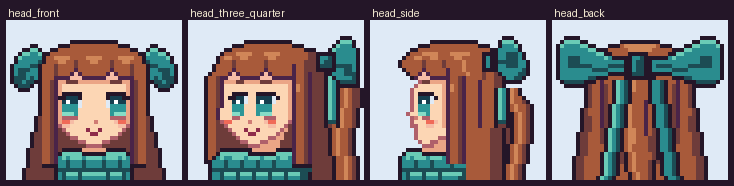
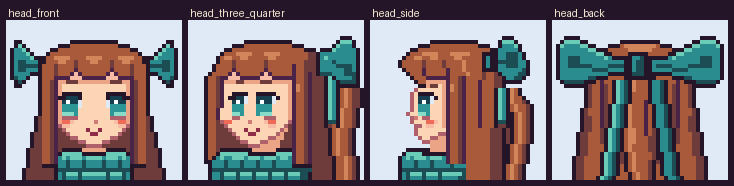
r13 head_small round 6 (final fixes)

diff --git a/docs/review/r13_head_small.md b/docs/review/r13_head_small.md
@@ -1,4 +1,4 @@
-# r13 Head at full-body scale (Pixel Artist 3), review-4 bow applied
+# r13 Head at full-body scale (Pixel Artist 3), review-5 final fixes applied
 
 This is candidate C's face as a ~27 px head. **The canvas is now 44x40, so paste at x+26** (turnaround x = head_small x + 26). Rows are unchanged; all x values below are 44-canvas.
 
@@ -21,16 +21,14 @@ This is candidate C's face as a ~27 px head. **The canvas is now 44x40, so paste
 
 ## Bow (review 4: puffy teardrops, 42 px)
 - **Back (master):** loops x1-18 and x24-42, 13 rows at the outer end (y4-16), pinching to 5 rows (y9-13) at a 5x7 knot (x19-23, y8-14). Corners are rounded and the bottom droops. Each loop has a 3x3 `teal_0` pocket (x4-6 / x37-39, y9-11) and a crease to the knot. `teal_2` is on the top arc only, with no stripes.
-- **Front:** behind-hair lobes at x1-10 and x33-42. They meet the head at y8-13 and swell to y6-17 at the tip. The top slopes down outward so they droop. The pocket is 2x3 at x3-4 / x39-40, y12-14. I lowered the lobes 1 row from the spec so the silhouette doesn't read as ears.
-- **3/4:** the skull's back edge moves to x33 (y8-28); the tail and ponytail moved +2. Knot at x32-36, y8-12. The near-loop teardrop is at x34-42, y4-16 with a 2x3 pocket. The far loop is hidden.
+- **Front (R5):** each lobe is the visible outer half of the back loop. The outer end is at x1-3, y5-16 with rounded corners. The edges step in toward the head (top: y5 x2-3, then x4, 5, 6, 7; bottom: y16 x2-3, then x4, 5, x6-7 at y13). The tip tucks under the hair at x7-8, y9-13. Each has a `teal_0` pocket at x3-4, y10-12, a crease at y11, and `teal_2` on the top arc. Mirrored at x35-42.
+- **3/4:** the skull's back edge moves to x33 (y8-28); the tail and ponytail moved +2. Knot (R5): a pinched 3x6 `teal_1` knot at x33-35, y8-13, with a `teal_2` pixel at (34,9), a `teal_0` bottom row, and no outline on the loop side. The near-loop teardrop is at x34-42, y4-16 with a 2x3 pocket. The far loop is hidden.
 - **Side:** the near loop is seen face-on at x31-39, y4-15, drooping back (6 px past the back hair), with a 3x4 opening and the knot at x28-30, y8-12. The gap at x34, y27-30 is filled with `d`.
 
-## Side profile
-- The forehead curves from x12 to x10.
-- The nose is a 1 px upturned tip at (9,23), and the face steps back at y24.
-- The mouth is a single `line_skin` pixel at (11,26).
-- The chin is rounded at y27-31.
-- The bang overhangs 2 px with a rounded tip (row 14 starts at x10). The hole at (18,15) is filled with `u`.
+## Side profile (R5)
+- The bangs hang to y16 at x11-13, so skin starts at y17.
+- Profile `L`: y17 x11; y18-22 x10; y23 x9 (nose); y24-25 x10; y26-28 x11; y29 x12. The mouth is a single `L` at (12,26).
+- The jaw is steeper: y28 x17-18, y29 x15-16, y30 x13-14. The neck below is `u` (x15-18, y30-31), and the old jaw block is cleared.
 - There are no side expressions.
 
 **3/4:** far eye 4 px (3 px iris), near eye 5 px, 2 px nose-bridge gap.
